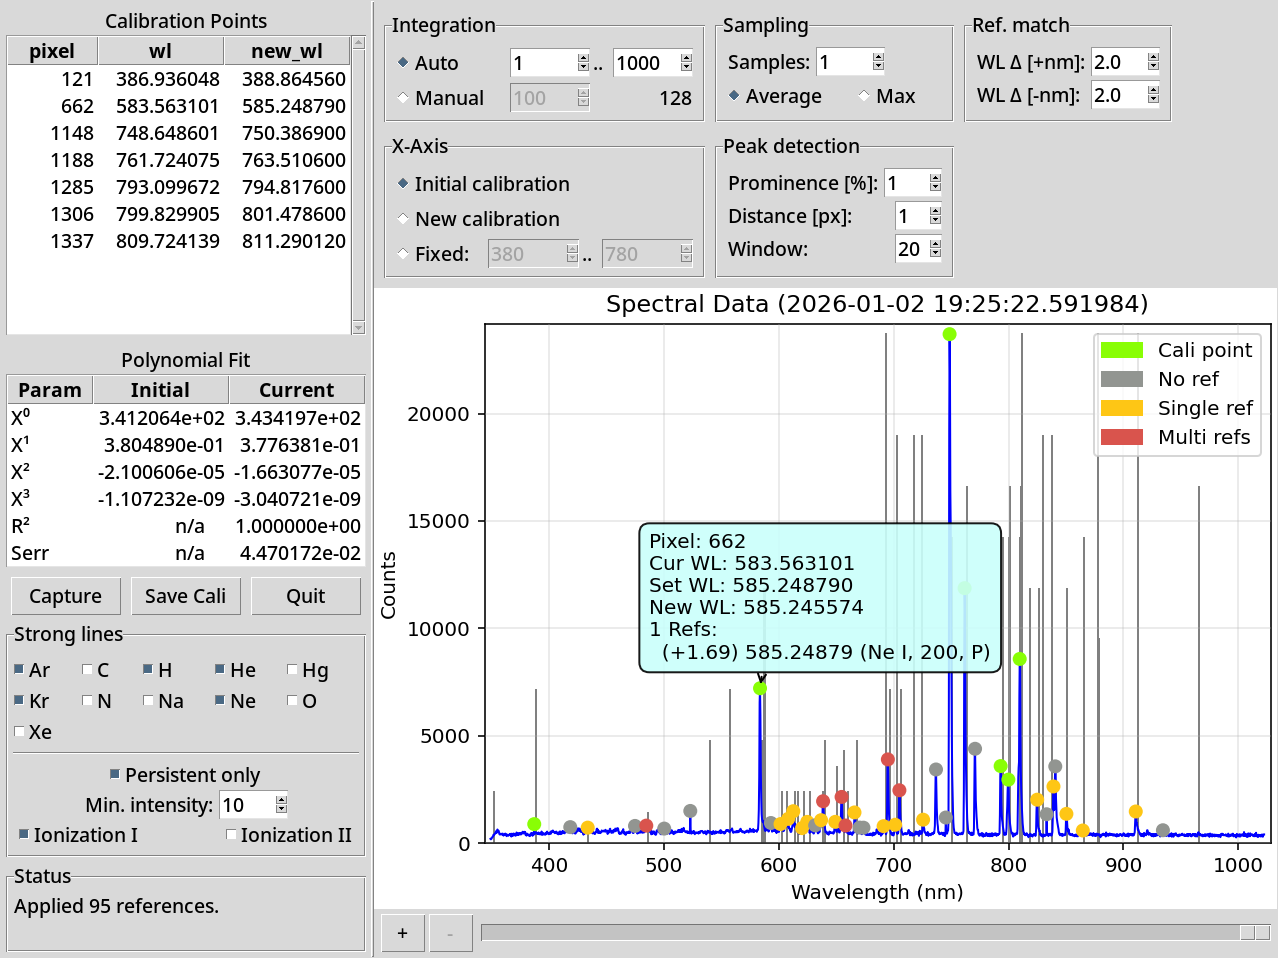
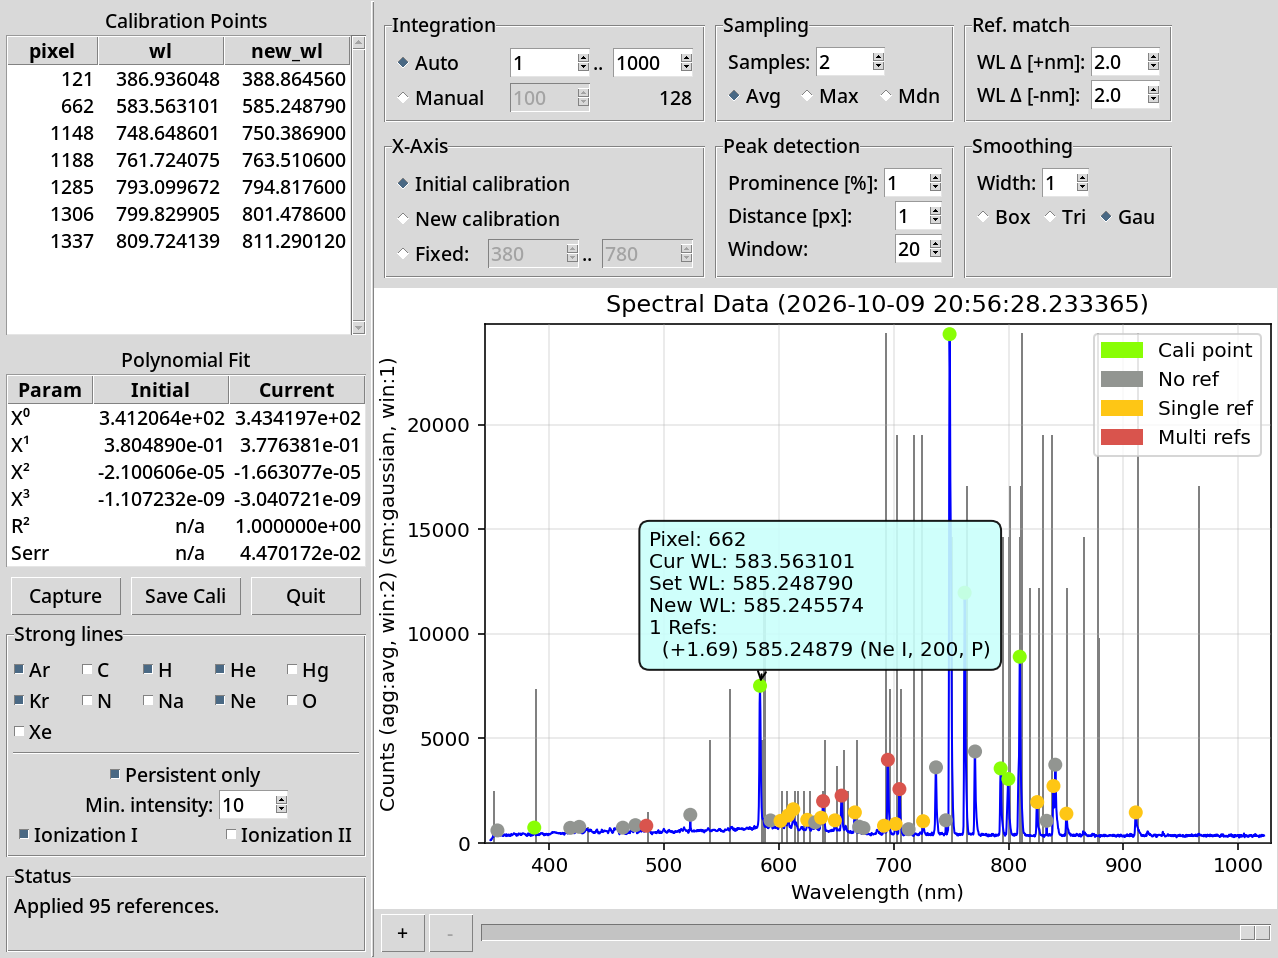
WLC: add smoothing (boxcar)

diff --git a/tobes_ui/common.py b/tobes_ui/common.py
@@ -3,9 +3,10 @@
 from collections import deque
 import copy
 import time
-from typing import Any, Literal
+from typing import Literal
 
 import numpy as np
+from scipy.ndimage import convolve1d
 
 from tobes_ui.spectrometer import Spectrum
 
@@ -96,7 +97,7 @@ class Aggregator:
             raise ValueError("window_size must be positive")
         if func not in self._VALID_FUNCS:
             raise ValueError(
-                f"Invalid func {value!r}; "
+                f"Invalid func {func!r}; "
                 f"expected one of {sorted(self._VALID_FUNCS)}"
             )
 
@@ -170,7 +171,7 @@ class Aggregator:
             self._max.fill(-np.inf)
 
     def add(self, instance):
-        """Add a reading and return the aggregated result."""
+        """Add a reading and return the processed result."""
         instance = np.asarray(instance)
 
         if instance.ndim != 1:
@@ -328,18 +329,22 @@ class Aggregator:
         return self._aggregate()
 
 
-class SpectrumAggregator:
-    """Aggregates spectrum readings over given window_size with given func"""
+class SpectrumProcessor:
+    """Processes spectrum readings over given window_size with given func"""
 
-    _VALID_FUNCS = {"avg", "max", "mdn"}
+    _VALID_FUNCS = {}
+    _PROCESSOR = None  # Provide!
+    _MIN_ACTIVE_WINDOW = 1  # min window with which the processing is active
 
-    def __init__(self, window_size: int, func: Literal["avg", "max", "mdn"] = "avg"):
-        self._buffers = {
-                'spd': Aggregator(window_size, func),
-                'spd_raw': Aggregator(window_size, func),
-        }
+    def __init__(self, window_size: int, func: str):
         if func not in self._VALID_FUNCS:
             raise ValueError(f"Invalid func: {func!r}")
+        if not callable(self._PROCESSOR):
+            raise ValueError("no processor provided")
+        self._buffers = {
+                'spd': self._PROCESSOR(window_size, func),
+                'spd_raw': self._PROCESSOR(window_size, func),
+        }
         self._func = func
         self._window_size = window_size
         self._items = 0
@@ -364,8 +369,8 @@ class SpectrumAggregator:
         return self._func
 
     @func.setter
-    def func(self, func: Literal["avg", "max", "mdn"]):
-        """Set aggregating func to use (avg, max, or mdn)"""
+    def func(self, func: str):
+        """Set processing func to use"""
         if func not in self._VALID_FUNCS:
             raise ValueError(f"Invalid func: {func!r}")
         for _field_name, buffer in self._buffers.items():
@@ -380,7 +385,7 @@ class SpectrumAggregator:
         self._last = None
 
     def add(self, instance: Spectrum) -> Spectrum:
-        """Add value (instance of spectrum) and return aggregated"""
+        """Add value (instance of spectrum) and return processed"""
         update = {}
         for field_name, buffer in self._buffers.items():
             value = getattr(instance, field_name)
@@ -402,7 +407,7 @@ class SpectrumAggregator:
 
         instance = copy.copy(self._last)
 
-        if self.window_size > 1:
+        if self.window_size >= self._MIN_ACTIVE_WINDOW:
             if not instance.y_axis or instance.y_axis == 'counts':
                 instance.y_axis = "Counts"
 
@@ -422,5 +427,139 @@ class SpectrumAggregator:
         return self._apply(update)
 
     def __repr__(self):
-        return (f"<{__name__}.SpectrumAggregator(op={self.func},"
+        return (f"<{__name__}.{__class__}(op={self.func},"
                 f" window_size={self.window_size}, buf={self._items})>")
+
+
+class SpectrumAggregator(SpectrumProcessor):
+    """Aggregates spectrum readings over given window_size with given func"""
+
+    _VALID_FUNCS = {"avg", "max", "mdn"}
+    _PROCESSOR = Aggregator
+    _MIN_ACTIVE_WINDOW = 2
+
+    def __init__(self, window_size: int, func: Literal["avg", "max", "mdn"] = "avg"):
+        super().__init__(window_size, func)
+
+
+class Smoother:
+    """Smooths readings over a given window."""
+
+    _VALID_FUNCS = {"boxcar", "triangular", "gaussian"}
+
+    def __init__(
+        self,
+        window_size: int,
+        func: Literal["boxcar", "triangular", "gaussian"] = "boxcar",
+    ):
+        if window_size < 0:
+            raise ValueError("window_size must be positive or zero")
+        if func not in self._VALID_FUNCS:
+            raise ValueError(
+                f"Invalid func {func!r}; "
+                f"expected one of {sorted(self._VALID_FUNCS)}"
+            )
+
+        self._window_size = window_size
+        self._func = func
+
+        self._data = None
+
+    @property
+    def window_size(self) -> int:
+        """Get current window size."""
+        return self._window_size
+
+    @window_size.setter
+    def window_size(self, value: int):
+        """Resize the window, retaining the newest values."""
+        if value < 0:
+            raise ValueError("window_size must be positive or zero")
+        self._window_size = value
+
+    @property
+    def func(self) -> str:
+        """Get current func."""
+        return self._func
+
+    @func.setter
+    def func(self, value: Literal["boxcar", "triangular", "gaussian"]):
+        """Set aggregating func to use."""
+        if value not in self._VALID_FUNCS:
+            raise ValueError(
+                f"Invalid func {value!r}; "
+                f"expected one of {sorted(self._VALID_FUNCS)}"
+            )
+
+        self._func = value
+
+    def clear(self):
+        """Clear all buffers while retaining configuration."""
+        self._data = None
+
+    def add(self, instance):
+        """Add a reading and return the smoothed result."""
+        self._data = instance
+
+        return self.last()
+
+    def last(self):
+        """Return last value for current aggregator (what add() would)"""
+        if self._data is None:
+            return None
+        y = np.asarray(self._data)
+        x = np.arange(-self._window_size, self._window_size + 1)
+
+        match self._func:
+            case "boxcar":
+                kernel = np.ones(2 * self._window_size + 1)
+
+            case "triangular":
+                kernel = self._window_size + 1 - np.abs(x)
+
+            case "gaussian":
+                sigma = max(self._window_size / 2, 0.5)
+                kernel = np.exp(-0.5 * (x / sigma) ** 2)
+
+            case _:
+                raise ValueError("internal error: Unknown method")
+
+        kernel = kernel / kernel.sum()
+
+        return convolve1d(y, kernel, mode="nearest")
+
+    def describe(self):
+        """Describe currently active smoothing function"""
+        return f"(sm:{self._func}, win:{self._window_size})"
+
+
+class SpectrumSmoother(SpectrumProcessor):
+    """Smooths spectrum readings over given width (window) with given func"""
+
+    _VALID_FUNCS = {"boxcar", "triangular", "gaussian"}
+    _PROCESSOR = Smoother
+    _MIN_ACTIVE_WINDOW = 1  # window of 1 means one pixel on each side
+
+
+class SpectrumAggregatorSmoother:
+    """Chain of aggregator and smoother."""
+
+    def __init__(self, agg : SpectrumAggregator, sm: SpectrumSmoother):
+        self._agg = agg
+        self._sm = sm
+
+    def add(self, instance):
+        """Add value (instance of spectrum) and return processed"""
+        return self._sm.add(self._agg.add(instance))
+
+    def last(self):
+        """Return last spectrum with current function (what add() would)"""
+        a = self._agg.last()
+        if a:
+            return self._sm.add(a)
+        return None
+
+    def clear(self):
+        """Clear all buffers while retaining configuration."""
+        self._agg.clear()
+        self._sm.clear()

diff --git a/tobes_ui/wavelength_calibration.py b/tobes_ui/wavelength_calibration.py
@@ -18,13 +18,14 @@ from tobes_ui.calibration.common import ToolTip
 from tobes_ui.calibration.strong_lines_control import StrongLinesControl
 from tobes_ui.calibration.integration_control import IntegrationControl
 from tobes_ui.calibration.sampling_control import SamplingControl
+from tobes_ui.calibration.smoothing_control import SmoothingControl
 from tobes_ui.calibration.peak_detection_control import PeakDetectionControl
 from tobes_ui.calibration.reference_match_control import ReferenceMatchControl
 from tobes_ui.calibration.wavelength_editor import WavelengthEditor
 from tobes_ui.calibration.wavelength_save_dialog import WavelengthCalibrationSaveDialog
 from tobes_ui.calibration.x_axis_control import XAxisControl
 from tobes_ui.calibration.x_axis_zoom_control import XAxisZoomControl
-from tobes_ui.common import AttrDict, SlidingMax, SpectrumAggregator
+from tobes_ui.common import AttrDict, SlidingMax, SpectrumAggregator, SpectrumSmoother, SpectrumAggregatorSmoother
 from tobes_ui.common_gui import CommonGUI
 from tobes_ui.logger import LogLevel, configure_logging, LOGGER, set_level
 from tobes_ui.spectrometer import ExposureMode, Spectrometer
@@ -47,6 +48,8 @@ class WavelengthCalibrationGUI(CommonGUI): # pylint: disable=too-few-public-meth
         self._x_axis_idx = None  # polyfit for the x axis (index for each pixel)
 
         self._spectrum_agg = SpectrumAggregator(1)
+        self._spectrum_sm = SpectrumSmoother(0, "boxcar")
+        self._spectrum_agg_sm = SpectrumAggregatorSmoother(self._spectrum_agg, self._spectrum_sm)
         self._spectrum = None  # Spectrum captured by spectrometer (last)
         self._y_axis_max = SlidingMax(5)
         self._strong_lines = StrongLinesContainer({})
@@ -379,7 +382,7 @@ class WavelengthCalibrationGUI(CommonGUI): # pylint: disable=too-few-public-meth
                 # Start capture
                 LOGGER.debug("Starting capture...")
                 self._clear_peaks()
-                self._spectrum_agg.clear()
+                self._spectrum_agg_sm.clear()
                 self._set_refresh_type(RefreshType.CONTINUOUS)
                 self._ui_elements.capture_button.config(text="Freeze")
 
@@ -393,7 +396,7 @@ class WavelengthCalibrationGUI(CommonGUI): # pylint: disable=too-few-public-meth
         if 'integration_control' in self._ui_elements:
             self._ui_elements.integration_control.integration_time = spectrum.time
         spectrum.spd = {1: 1}  # Optimization to save some time, because we don't use `spd`
-        self._spectrum = self._spectrum_agg.add(spectrum)
+        self._spectrum = self._spectrum_agg_sm.add(spectrum)
         self._update_plot(spectrum=True)
 
     PEAK_COLORS = AttrDict({
@@ -577,6 +580,8 @@ class WavelengthCalibrationGUI(CommonGUI): # pylint: disable=too-few-public-meth
             'x_axis_control': XAxisControl(controls_frame, on_change=self._apply_x_axis_ctrl),
             'peak_detection_control': PeakDetectionControl(controls_frame,
                                                            on_change=self._apply_peak_detect_ctrl),
+            'smoothing_control': SmoothingControl(controls_frame,
+                                                  on_change=self._apply_smoothing_ctrl),
         }
 
         col = 0
@@ -630,8 +635,20 @@ class WavelengthCalibrationGUI(CommonGUI): # pylint: disable=too-few-public-meth
         LOGGER.debug(data)
         self._spectrum_agg.func = data['mode'] or 'avg'
         self._spectrum_agg.window_size = data['samples'] or 1
-        self._spectrum = self._spectrum_agg.last()
+        self._spectrum = self._spectrum_agg_sm.last()
         self._update_plot(spectrum=True)
+        if self._refresh_type == RefreshType.NONE:
+            self._detect_peaks()
+
+    def _apply_smoothing_ctrl(self, data):
+        """Applies Smoothing Control data"""
+        LOGGER.debug(data)
+        self._spectrum_sm.func = data['mode'] or 'boxcar'
+        self._spectrum_sm.window_size = data['width'] or 0
+        self._spectrum = self._spectrum_agg_sm.last()
+        self._update_plot(spectrum=True)
+        if self._refresh_type == RefreshType.NONE:
+            self._detect_peaks()
 
     def _apply_x_axis_ctrl(self, data):
         """Applies X-Axis Control data"""

diff --git a/tobes_ui/calibration/smoothing_control.py b/tobes_ui/calibration/smoothing_control.py
@@ -1,0 +1,57 @@
+"""Panel with smoothing controls."""
+
+import tkinter as tk
+from tkinter import ttk
+
+from tobes_ui.calibration.common import (CalibrationControlPanel, ClampedSpinbox, ToolTip)
+
+
+class SmoothingControl(CalibrationControlPanel):  # pylint: disable=too-many-ancestors
+    """Control for smoothing."""
+
+    def __init__(self, parent, **kwargs):
+        super().__init__(parent, text='Smoothing', **kwargs)
+
+    def _setup_gui(self):
+        """Setup GUI elements for the control."""
+        self._initialized = False
+
+        # --- Variables ---
+        self._mode = tk.StringVar(value='boxcar')
+        self._mode.trace_add('write', self._change_cb)
+
+        # --- Widgets ---
+        self._width_spinbox = ClampedSpinbox(self, label_text='Width:',
+                                             min_val=0, max_val=20, initial=0,
+                                             on_change=self._change_cb)
+        self._width_spinbox.grid(row=0, column=0, columnspan=3, sticky='w', padx=5, pady=2)
+        ToolTip(self._width_spinbox, "Width for the smoothing")
+
+        w = "\n(width is num pixels on each side)"
+
+        box_radio = ttk.Radiobutton(self, text="Box", variable=self._mode, value='boxcar')
+        ToolTip(box_radio, "Boxcar (uniform)" + w)
+        tri_radio = ttk.Radiobutton(self, text="Tri", variable=self._mode, value='triangular')
+        ToolTip(tri_radio, "Triangular (Bartlett)" + w)
+        gau_radio = ttk.Radiobutton(self, text="Gau", variable=self._mode, value='gaussian')
+        ToolTip(gau_radio, "Gaussian" + w)
+
+        # --- Layout ---
+        box_radio.grid(row=1, column=0, padx=5, pady=2)
+        tri_radio.grid(row=1, column=1, padx=5, pady=2)
+        gau_radio.grid(row=1, column=2, padx=5, pady=2)
+
+        self._initialized = True
+        self._change_cb()  # Set initial state & trigger first callback
+
+    def _change_cb(self, *_args):
+        """Callback for when any control value changes."""
+        if not self._initialized:
+            self._data = {}
+            return
+        if self.on_change:
+            self._data = {
+                    'mode': self._mode.get(),
+                    'width': self._width_spinbox.get(),
+            }
+            self.on_change(self._data)
